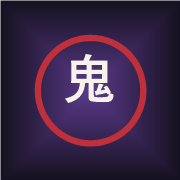
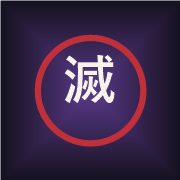
Rename to Demon Slayer RPG; add mask items, accessories and pets
- Rename the game to "Demon Slayer RPG" with an unofficial fan-game notice
- Swordsmith hyottoko mask is now a wearable item (plus a knife headband);
  old Swordsmith saves convert automatically
- New items: tengu mask, bamboo muzzle, eyepatch, kanzashi, oni horns,
  scarf patterns, and a crow or sparrow shoulder buddy
- Creator hides options that don't affect the Muscle Mouse or Boar Mask
  and makes eye shape/colour work for both

Changed region(s): [[0.3611, 0.2778, 0.6389, 0.5833]]

diff --git a/js/avatar.js b/js/avatar.js
@@ -238,6 +238,12 @@ function headgear(kind, color) {
   const dk = shade(color, -0.35);
   switch (kind) {
     case 'kasa': return accessory('strawHat');
+    case 'knifeBand': {
+      const knife = (x) => `<path d="M${x - 4},72 L${x - 4},26 Q${x},14 ${x + 4},26 L${x + 4},72Z" fill="#dfe4ec" class="ol" stroke-width="1.6"/><path d="M${x + 1},26 L${x + 1},70" stroke="#fff" stroke-width="1.2"/>`;
+      let dots = '';
+      for (let x = 72; x <= 168; x += 11) dots += `<circle cx="${x}" cy="${78 - Math.sin(((x - 66) / 108) * Math.PI) * 8}" r="2.6" fill="${INK}"/>`;
+      return `${knife(104)}${knife(136)}<path d="M64,76 Q120,58 176,76 L176,90 Q120,72 64,90Z" fill="#f7f4ee" class="ol" stroke-width="1.8"/>${dots}`;
+    }
     case 'hachimaki': return `<path d="M66,74 Q120,58 174,74 L174,88 Q120,72 66,88Z" fill="${color}" class="ol" stroke-width="1.8"/>
       <path d="M174,80 Q196,86 206,100 L196,104 Q190,94 176,88Z M174,84 Q190,100 190,118 L180,116 Q180,100 172,90Z" fill="${color}" class="ol" stroke-width="1.6"/><circle cx="176" cy="82" r="5" fill="${dk}" class="ol" stroke-width="1.4"/>`;
     case 'jingasa': return `<path d="M96,70 L94,146 M144,70 L146,146" stroke="#c8a868" stroke-width="1.6"/>
@@ -262,6 +268,29 @@ function accessory(style, color) {
     case 'flowerMask': return sideMask('flower');
     case 'scarMask': return `<path d="M70,74 Q120,58 170,74" fill="none" stroke="#a8202e" stroke-width="5"/><path d="M168,74 L176,98 M172,74 L182,94" stroke="#a8202e" stroke-width="3"/>` + sideMask('scar');
     case 'maskFace': return `<g transform="translate(120,100) scale(2.9)">${maskShape('sun')}</g>`;
+    case 'hyottoko': {
+      // Swordsmith's hyottoko mask: pink, round staring eyes, heavy brows, red cheeks, pursed spout mouth.
+      let seam = '';
+      for (let i = 0; i < 26; i++) { const t = (i / 26) * Math.PI * 2; seam += `M${(120 + Math.cos(t) * 41).toFixed(1)},${(100 + Math.sin(t) * 47).toFixed(1)} l${(Math.cos(t) * 4).toFixed(1)},${(Math.sin(t) * 4).toFixed(1)} `; }
+      return `<path d="M74,92 L62,88 M166,92 L178,88" stroke="#c8b898" stroke-width="2"/>
+        <ellipse cx="120" cy="100" rx="47" ry="53" fill="#e9868e" class="ol"/><path d="${seam}" stroke="#b85a64" stroke-width="1.4"/>
+        <path d="M152,64 Q172,100 148,148 L172,148 L172,64Z" fill="#000" opacity=".1"/>
+        <path d="M86,80 Q98,64 112,80 M128,80 Q142,64 154,80" fill="none" stroke="#1a1014" stroke-width="5.5" stroke-linecap="round"/>
+        ${[100, 140].map((x) => `<circle cx="${x}" cy="96" r="10" fill="#fff" class="ol" stroke-width="2"/><circle cx="${x}" cy="97" r="5.2" fill="#1a1014"/>`).join('')}
+        <circle cx="92" cy="118" r="8" fill="#b8202e"/><circle cx="148" cy="118" r="8" fill="#b8202e"/>
+        <path d="M120,104 Q114,114 120,116 Q126,114 120,104" fill="none" stroke="#b85a64" stroke-width="2"/>
+        <path d="M114,126 L156,138 Q164,140 160,146 L116,138Z" fill="#e47c86" class="ol" stroke-width="2"/><ellipse cx="160" cy="142" rx="3.4" ry="4" fill="#5a1e2a"/>`;
+    }
+    case 'tengu': return `<g transform="translate(160,50) rotate(24)"><path d="M-15,-6 Q-15,-21 0,-21 Q15,-21 15,-6 Q15,10 0,19 Q-15,10 -15,-6Z" fill="#c8302a" class="ol"/>
+      <path d="M-2,-4 L22,-22 L4,4Z" fill="#b02824" class="ol" stroke-width="1.4"/><path d="M-12,-10 Q-6,-16 -1,-10 M12,-10 Q6,-16 1,-10" fill="none" stroke="#fff" stroke-width="3"/>
+      <circle cx="-6" cy="-5" r="2" fill="#f0c23a"/><circle cx="6" cy="-5" r="2" fill="#f0c23a"/><path d="M-6,10 Q0,13 6,10" stroke="#1a1014" stroke-width="1.6" fill="none"/></g>`;
+    case 'muzzle': return `<path d="M96,129 L74,116 M144,129 L166,116" stroke="#a8202e" stroke-width="2.2"/>
+      <rect x="94" y="123" width="52" height="12" rx="6" fill="#7a9a4a" class="ol" stroke-width="1.8"/><path d="M110,123 L110,135 M130,123 L130,135" stroke="#4a6a2a" stroke-width="2"/><path d="M98,126 L142,126" stroke="#b8d08a" stroke-width="1.6"/>`;
+    case 'eyepatch': return `<path d="M66,76 L176,124 M70,124 L132,104" stroke="#1a1014" stroke-width="2.4"/><ellipse cx="140" cy="104" rx="14" ry="12" fill="#1a1014" class="ol"/>`;
+    case 'kanzashi': return `<path d="M136,40 L170,70" stroke="#d9a83a" stroke-width="2.6"/><g transform="translate(140,44)">${[0, 72, 144, 216, 288].map((a) => `<ellipse cx="0" cy="-5" rx="3.6" ry="5" fill="${color}" class="ol" stroke-width="1" transform="rotate(${a})"/>`).join('')}<circle r="2.6" fill="#f0c23a"/></g>
+      ${[0, 1, 2, 3].map((i) => `<circle cx="${146 + i}" cy="${54 + i * 7}" r="2.4" fill="${i % 2 ? '#e8ecf4' : color}" class="ol" stroke-width=".8"/>`).join('')}<path d="M144,48 L149,74" stroke="#d9a83a" stroke-width="1"/>`;
+    case 'oniHorns': return `<path d="M70,66 Q120,46 170,66" fill="none" stroke="#2a2a30" stroke-width="5"/>
+      <path d="M92,58 Q86,30 96,22 Q102,40 106,54Z M148,58 Q154,30 144,22 Q138,40 134,54Z" fill="${color}" class="ol" stroke-width="1.8"/>`;
     case 'bigButterfly': {
       const wing = `<path d="M0,0 C-6,-22 -30,-28 -30,-10 C-30,0 -14,2 0,0Z" fill="url(#bfly)" class="ol" stroke-width="1.4"/><path d="M0,2 C-16,4 -24,18 -12,22 C-4,24 0,12 0,2Z" fill="url(#bfly)" class="ol" stroke-width="1.4"/>
         <path d="M-2,-2 L-24,-14 M-4,-1 L-20,-4 M-2,3 L-14,14" stroke="${INK}" stroke-width="1"/><circle cx="-24" cy="-8" r="1.4" fill="#fff"/><circle cx="-26" cy="-14" r="1.2" fill="#fff"/>`;
@@ -291,9 +320,22 @@ function accessory(style, color) {
   }
 }
 
+/* ---------------- shoulder buddies ---------------- */
+function shoulderPet(kind, x, y) {
+  if (kind === 'crow') return `<g transform="translate(${x},${y - 8}) scale(.8)" style="filter:drop-shadow(0 0 1.5px #b8c4e8)"><g stroke="#0c0e18" stroke-width="2" stroke-linejoin="round">
+    <path d="M18,6 L34,14 L30,22Z" fill="#181b2c"/><path d="M-16,4 Q-12,-14 4,-14 Q18,-12 20,2 Q14,14 -4,14 Q-14,12 -16,4Z" fill="#1e2236"/>
+    <path d="M-8,0 Q4,-6 16,2 Q6,10 -10,8Z" fill="#283050"/><circle cx="-12" cy="-16" r="9" fill="#1e2236"/><path d="M-19,-20 Q-31,-21 -34,-14 Q-27,-14 -21,-11Z" fill="#2c3048"/></g>
+    <circle cx="-15" cy="-18" r="2.2" fill="#cdd0de"/><path d="M-4,14 L-5,22 M4,14 L5,22" stroke="#14161f" stroke-width="2"/></g>`;
+  if (kind === 'sparrow') return `<g transform="translate(${x},${y}) scale(.55)"><g stroke="#3a2418" stroke-width="2" stroke-linejoin="round">
+    <path d="M14,2 L30,8 L24,14Z" fill="#6a4a30"/><ellipse cx="2" cy="2" rx="17" ry="13" fill="#b8865a"/><ellipse cx="-2" cy="7" rx="11" ry="7" fill="#f2e6d0"/>
+    <path d="M2,-4 Q14,-6 18,4 Q8,8 0,4Z" fill="#7a5034"/><circle cx="-10" cy="-10" r="9" fill="#8a5a36"/><path d="M-18,-10 L-25,-8 L-18,-6Z" fill="#e8c060"/></g>
+    <circle cx="-13" cy="-12" r="2" fill="#1a1014"/><ellipse cx="-12" cy="-4" rx="4" ry="2.6" fill="#ff9aa8" opacity=".6"/><path d="M-4,14 L-5,20 M4,14 L5,20" stroke="#3a2418" stroke-width="2"/></g>`;
+  return '';
+}
+
 /* ---------------- species heads ---------------- */
 // Boar: a shaggy grey boar-head mask with pink-tipped ears, big blue eyes, pink snout and tusks.
-function boarHead(fur, p) {
+function boarHead(fur, p, eyeColor = '#3462cc', eyeStyle = 'round') {
   const beard = shade(fur, -0.32), cx = 120, cy = 96;
   let d = '';
   for (let i = 0; i <= 48; i++) {
@@ -306,7 +348,12 @@ function boarHead(fur, p) {
   let strokes = '';
   for (let i = 0; i < 22; i++) { const x = 78 + ((i * 37) % 84), y = 54 + ((i * 23) % 40); strokes += `M${x},${y} l${(i % 3) - 1},5 `; }
   const ear = `<path d="M86,58 L72,22 L106,46Z" fill="#7a6e8e" class="ol"/><path d="M84,50 L76,30 L98,44Z" fill="#e8869e"/>`;
-  const eye = `<path d="M82,98 Q98,80 116,96 Q100,114 82,98Z" fill="#14101c"/><circle cx="99" cy="97" r="9.5" fill="#3462cc"/><circle cx="99" cy="97" r="6" fill="#6f9cf2"/><circle cx="99" cy="97" r="2.8" fill="#0c1230"/><circle cx="95.5" cy="93.5" r="2.6" fill="#fff"/>
+  const big = eyeStyle === 'wide' ? 1.2 : 1;
+  const eye = eyeStyle === 'happy'
+    ? `<path d="M84,100 Q99,84 114,100" fill="none" stroke="#14101c" stroke-width="4" stroke-linecap="round"/>`
+    : `<path d="M82,98 Q98,80 116,96 Q100,114 82,98Z" fill="#14101c" transform="translate(99 97) scale(${big}) translate(-99 -97)"/><circle cx="99" cy="97" r="${9.5 * big}" fill="${eyeColor}"/><circle cx="99" cy="97" r="${6 * big}" fill="${shade(eyeColor, 0.35)}"/><circle cx="99" cy="97" r="2.8" fill="#0c1230"/><circle cx="95.5" cy="93.5" r="2.6" fill="#fff"/>
+    ${eyeStyle === 'sleepy' ? `<path d="M80,97 Q99,80 118,95 L118,86 L80,86Z" fill="${fur}" class="ol" stroke-width="1.6"/>` : ''}
+    ${eyeStyle === 'fierce' || eyeStyle === 'sharp' ? `<path d="M80,82 L116,92" stroke="#14101c" stroke-width="4" stroke-linecap="round"/>` : ''}
     <path d="M80,88 Q96,76 114,84 M84,108 Q98,114 110,108" fill="none" stroke="${beard}" stroke-width="1.6"/>`;
   return `<defs><clipPath id="${p}bh"><path d="${d}Z"/></clipPath></defs>
     ${ear}${mirror(ear)}
@@ -320,34 +367,21 @@ function boarHead(fur, p) {
     <path d="M94,142 Q88,132 93,121 Q98,132 101,140Z M146,142 Q152,132 147,121 Q142,132 139,140Z" fill="#fffaf0" class="ol" stroke-width="1.4"/>`;
 }
 
-// Swordsmith: a comic hyottoko mask, wild curly hair and a polka-dot headband with two knives.
-function smithHead(L) {
-  const hair = L.hairColor || '#1b1416';
-  let curls = '';
-  for (let i = 0; i < 22; i++) {
-    const a = ((150 + i * 11.5) * Math.PI) / 180, r = 58 + (i % 3) * 6;
-    curls += `<circle cx="${(120 + Math.cos(a) * r).toFixed(1)}" cy="${(98 + Math.sin(a) * r * 0.95).toFixed(1)}" r="${13 + (i % 4) * 2}" fill="${hair}" class="ol"/>`;
-  }
-  for (const [x, y] of [[58, 140], [182, 140], [64, 166], [176, 166]]) curls += `<circle cx="${x}" cy="${y}" r="14" fill="${hair}" class="ol"/>`;
-  const knife = (x) => `<path d="M${x - 4},76 L${x - 4},30 Q${x},18 ${x + 4},30 L${x + 4},76Z" fill="#dfe4ec" class="ol" stroke-width="1.6"/><path d="M${x + 1},30 L${x + 1},74" stroke="#fff" stroke-width="1.2"/>`;
-  let dots = '';
-  for (let x = 76; x <= 164; x += 11) dots += `<circle cx="${x}" cy="${74 - Math.sin(((x - 70) / 100) * Math.PI) * 7}" r="2.6" fill="${INK}"/>`;
-  return `${curls}${knife(104)}${knife(136)}
-    <ellipse cx="120" cy="102" rx="46" ry="50" fill="#f0dcc0" class="ol"/>
-    <path d="M150,66 Q172,104 146,148 L170,148 L170,66Z" fill="#000" opacity=".1"/>
-    <path d="M88,86 Q98,78 110,86 M130,86 Q142,78 152,86" fill="none" stroke="${INK}" stroke-width="2.6" stroke-linecap="round"/>
-    ${[100, 140].map((x) => `<circle cx="${x}" cy="100" r="8.5" fill="#fff" class="ol" stroke-width="2"/><circle cx="${x + 1}" cy="101" r="4.4" fill="${INK}"/>`).join('')}
-    <ellipse cx="94" cy="118" rx="7" ry="4" fill="#ff8a8a" opacity=".5"/><ellipse cx="146" cy="118" rx="7" ry="4" fill="#ff8a8a" opacity=".5"/>
-    <path d="M118,112 L114,122 L120,122" fill="none" stroke="${shade('#f0dcc0', -0.4)}" stroke-width="1.8"/>
-    <path d="M114,132 Q122,124 128,128" fill="none" stroke="${INK}" stroke-width="1.6"/>
-    <ellipse cx="132" cy="130" rx="8" ry="7" fill="#e8848a" class="ol" stroke-width="2"/><ellipse cx="134" cy="130" rx="3" ry="2.6" fill="#5a1e2a"/>
-    <path d="M68,72 Q120,56 172,72 L172,86 Q120,70 68,86Z" fill="#f7f4ee" class="ol" stroke-width="1.8"/>${dots}`;
-}
-
 // Muscle Mouse body (its own proportions: huge head and torso, thin legs, ragged fur shorts).
 function capsule(x1, y1, x2, y2, r1, r2, fill) {
   const dx = x2 - x1, dy = y2 - y1, len = Math.hypot(dx, dy) || 1, nx = -dy / len, ny = dx / len, f = (v) => v.toFixed(1);
   return `<path d="M${f(x1 + nx * r1)},${f(y1 + ny * r1)} L${f(x2 + nx * r2)},${f(y2 + ny * r2)} L${f(x2 - nx * r2)},${f(y2 - ny * r2)} L${f(x1 - nx * r1)},${f(y1 - ny * r1)}Z" fill="${fill}"/><circle cx="${f(x1)}" cy="${f(y1)}" r="${r1}" fill="${fill}"/><circle cx="${f(x2)}" cy="${f(y2)}" r="${r2}" fill="${fill}"/>`;
+}
+
+function mouseEye(x, style, color, fur) {
+  const side = x < 120 ? -1 : 1, ring = color ? shade(color, -0.1) : '#6e6880';
+  if (style === 'happy') return `<path d="M${x - 13},134 Q${x},114 ${x + 13},134" fill="none" stroke="${INK}" stroke-width="4.5" stroke-linecap="round"/>`;
+  const r = style === 'wide' ? 18.5 : 16;
+  let e = `<circle cx="${x}" cy="128" r="${r}" fill="#1a1420" class="ol" stroke-width="1.6"/><circle cx="${x}" cy="128" r="${r * 0.72}" fill="none" stroke="${ring}" stroke-width="1.8"/><circle cx="${x - 6}" cy="121" r="4.2" fill="#fff"/><circle cx="${x + 5}" cy="134" r="1.8" fill="#fff"/>`;
+  if (style === 'sleepy') e += `<path d="M${x - 17},127 A17,17 0 0,1 ${x + 17},127Z" fill="${fur}" class="ol" stroke-width="1.8"/>`;
+  if (style === 'fierce' || style === 'sharp') e += `<path d="M${x - 16 * side * -1},${side < 0 ? 104 : 114} L${x + 14 * side * -1},${side < 0 ? 114 : 104}" stroke="${INK}" stroke-width="5" stroke-linecap="round"/>`;
+  if (style === 'gentle') e += `<path d="M${x - 14},106 Q${x},100 ${x + 14},106" fill="none" stroke="${INK}" stroke-width="3" stroke-linecap="round"/>`;
+  return e;
 }
 
 export function renderMouse(L, opts = {}) {
@@ -365,7 +399,7 @@ export function renderMouse(L, opts = {}) {
     <path d="M100,136 Q120,198 140,136 Q120,148 100,136Z" fill="${light}" class="ol" stroke-width="1.8"/>
     <ellipse cx="120" cy="184" rx="5.5" ry="4" fill="#2a2030"/>
     <path d="M113,176 L82,168 M113,180 L84,184 M127,176 L158,168 M127,180 L156,184" stroke="${INK}" stroke-width="1.3" opacity=".8"/>
-    ${[98, 142].map((x) => `<circle cx="${x}" cy="128" r="16" fill="#1a1420" class="ol" stroke-width="1.6"/><circle cx="${x}" cy="128" r="11.5" fill="none" stroke="#6e6880" stroke-width="1.6"/><circle cx="${x - 6}" cy="121" r="4.2" fill="#fff"/><circle cx="${x + 5}" cy="134" r="1.8" fill="#fff"/>`).join('')}
+    ${[98, 142].map((x) => mouseEye(x, L.eyes, L.eyeColor, fur)).join('')}
     <path d="M64,98 Q120,74 176,98 L174,116 Q120,92 66,116Z" fill="#efe4c4" class="ol" stroke-width="2"/>
     <path d="M70,104 Q120,82 170,104" fill="none" stroke="#c8b890" stroke-width="1.4"/>
     ${[[120, 95, 13, 9], [92, 102, 6, 6], [148, 102, 6, 6]].map(([x, y, w, h]) => `<path d="M${x - w},${y} L${x - w * 0.5},${y - h} L${x + w * 0.5},${y - h} L${x + w},${y} L${x + w * 0.5},${y + h} L${x - w * 0.5},${y + h}Z" fill="${gem}" class="ol" stroke-width="1.4"/><path d="M${x - w * 0.5},${y - h} L${x},${y} L${x + w * 0.5},${y - h} M${x - w},${y} L${x + w},${y}" stroke="#fff" stroke-width=".9" opacity=".8"/>`).join('')}
@@ -639,6 +673,7 @@ const SHADE = 'fill="#000" opacity=".2"';
 
 export function renderAvatar(look, opts = {}) {
   if (look.species === 'mouse') return renderMouse(look, opts);
+  if (look.species === 'smith') look = { ...look, species: 'human', accessory: 'hyottoko', headgear: look.headgear && look.headgear !== 'none' ? look.headgear : 'knifeBand' };
   const p = `av${++uid}`;
   const L = look;
   const uc = L.uniformColor;
@@ -677,14 +712,14 @@ export function renderAvatar(look, opts = {}) {
     <path d="M98,26 Q90,50 100,76 M122,22 Q118,48 126,70 M146,28 Q156,52 148,80 M80,44 Q72,66 82,90 M164,46 Q172,70 162,94" fill="none" stroke="#000" stroke-width="1.6" opacity=".3"/>
     <path d="M86,44 Q120,28 154,44" fill="none" stroke="#fff" stroke-width="4" stroke-linecap="round" opacity=".3"/></g>`;
   const species = L.species || 'human';
-  const headFront = species === 'boar' ? boarHead(L.furColor || '#9a948e', p)
-    : species === 'smith' ? smithHead(L) + earrings + headgear(L.headgear, L.headgearColor || '#c0303a')
+  const headFront = species === 'boar' ? boarHead(L.furColor || '#9a948e', p, L.eyeColor || '#3462cc', L.eyes)
     : `${ears}${face}${blush}${eyes}${nose(L.nose, skin)}${mouth(L.mouth)}${hairFront}${brows}${scar(L.scar, skin)}${mark(L.mark, skin)}${earrings}${accessory(L.accessory, L.accColor)}${headgear(L.headgear, L.headgearColor || '#c0303a')}`;
   const style = `<style>.ol{stroke:${INK};stroke-width:2;stroke-linejoin:round}.hd .ol{stroke-width:3.2}</style>`;
   const label = opts.name ? opts.name.replace(/[<>"&]/g, '') : 'Your character';
 
   if (opts.headOnly) {
-    return `<svg viewBox="56 22 128 128" class="avatar-svg" role="img" aria-label="${label}" xmlns="http://www.w3.org/2000/svg">${style}<defs>${defs}</defs>${species === 'human' ? hairBack : ''}${headFront}</svg>`;
+    const vb = species === 'boar' ? '40 14 160 160' : '56 22 128 128';
+    return `<svg viewBox="${vb}" class="avatar-svg" role="img" aria-label="${label}" xmlns="http://www.w3.org/2000/svg">${style}<defs>${defs}</defs>${species === 'human' ? hairBack : ''}${headFront}</svg>`;
   }
 
   /* body */
@@ -816,13 +851,21 @@ export function renderAvatar(look, opts = {}) {
   const sc = L.scarfColor || '#4a7ad8', scD = shade(sc, -0.3);
   const ribs = (x0, x1, y0, y1) => { let r = ''; for (let x = x0; x <= x1; x += 4.5) r += `M${x},${y0} L${x + 1},${y1} `; return `<path d="${r}" stroke="${scD}" stroke-width="1.2"/>`; };
   let scarfFront = '', scarfBack = '';
+  const sp = L.scarfPattern || 'plain';
+  if (sp !== 'plain') {
+    const tile = sp === 'stripes' ? `<rect width="10" height="10" fill="${sc}"/><rect y="5" width="10" height="5" fill="${scD}"/>`
+      : sp === 'checks' ? `<rect width="10" height="10" fill="${sc}"/><rect width="5" height="5" fill="${scD}"/><rect x="5" y="5" width="5" height="5" fill="${scD}"/>`
+      : `<rect width="10" height="10" fill="${sc}"/><circle cx="5" cy="5" r="1.8" fill="#fff" opacity=".85"/>`;
+    defs += `<pattern id="${p}sp" width="10" height="10" patternUnits="userSpaceOnUse">${tile}</pattern>`;
+  }
+  const scFill = sp === 'plain' ? sc : `url(#${p}sp)`;
   if (L.scarf && L.scarf !== 'none') {
     const high = L.scarf === 'wrap';
     const top = high ? 88 : 96;
-    scarfFront = `<path d="M94,${top} Q120,${top + 8} 146,${top} L150,122 Q120,132 90,122Z" fill="${sc}" class="ol"/>${ribs(96, 144, top + 4, 124)}
+    scarfFront = `<path d="M94,${top} Q120,${top + 8} 146,${top} L150,122 Q120,132 90,122Z" fill="${scFill}" class="ol"/>${ribs(96, 144, top + 4, 124)}
       <path d="M92,${top + 13} Q120,${top + 22} 148,${top + 13}" fill="none" stroke="${scD}" stroke-width="2.2"/>`;
-    if (L.scarf === 'knit') scarfFront += `<path d="M124,118 L142,116 L147,178 L129,180Z" fill="${sc}" class="ol"/>${ribs(127, 143, 120, 176)}<path d="M130,180 l-1,7 M134,180 l0,7 M138,179 l1,7 M142,179 l1,7 M146,178 l2,6" stroke="${sc}" stroke-width="2"/>`;
-    if (L.scarf === 'long') scarfBack = `<path d="M140,100 Q186,94 212,116 Q228,132 238,126 L236,144 Q214,152 198,136 Q180,118 146,120Z" fill="${sc}" class="ol"/><path d="M160,104 Q190,104 214,124" fill="none" stroke="${scD}" stroke-width="1.6"/>`;
+    if (L.scarf === 'knit') scarfFront += `<path d="M124,118 L142,116 L147,178 L129,180Z" fill="${scFill}" class="ol"/>${ribs(127, 143, 120, 176)}<path d="M130,180 l-1,7 M134,180 l0,7 M138,179 l1,7 M142,179 l1,7 M146,178 l2,6" stroke="${sc}" stroke-width="2"/>`;
+    if (L.scarf === 'long') scarfBack = `<path d="M140,100 Q186,94 212,116 Q228,132 238,126 L236,144 Q214,152 198,136 Q180,118 146,120Z" fill="${scFill}" class="ol"/><path d="M160,104 Q190,104 214,124" fill="none" stroke="${scD}" stroke-width="1.6"/>`;
   }
   let cape = '';
   if (L.cape === 'mino') {
@@ -868,7 +911,7 @@ export function renderAvatar(look, opts = {}) {
     <g transform="${stance(1)}">${legsL}</g><g transform="${stance(-1)}">${legsR}</g>${legsTop}
     ${scarfBack}${neck}${torso}${haoriFront}${scarfFront}
     ${weaponExtra}${armL}${armRight}${cape}
-    <g class="hd" transform="${headT}">${headFront}</g>
+    <g class="hd" transform="${headT}">${headFront}</g>${shoulderPet(L.pet, 120 + S - 2, 104)}
   </g>`;
 
   return `<svg viewBox="0 -10 240 416" class="avatar-svg" role="img" aria-label="${label}" xmlns="http://www.w3.org/2000/svg">${style}<defs>${defs}</defs>${body}</svg>`;

diff --git a/js/data.js b/js/data.js
@@ -32,9 +32,12 @@ export const HAIR = [o('spiky', 'Spiky'), o('wild', 'Wild mane'), o('neat', 'Sid
 export const HAIR_FADE = [o('soft', 'Soft tips'), o('sharp', 'Sharp ends'), o('ends', 'Just the ends'), o('full', 'Full fade')];
 export const ACCESSORY = [o('none', 'None'), o('foxMask', 'Fox mask'), o('ribbon', 'Ribbon'), o('butterfly', 'Butterfly clips'),
   o('bigButterfly', 'Big butterfly'), o('headband', 'Jewel headband'), o('flower', 'Flower pin'),
-  o('sunMask', 'Warding mask'), o('flowerMask', 'Flower cat mask'), o('scarMask', 'Scarred fox mask'), o('maskFace', 'Mask over face')];
-export const HEADGEAR = [o('none', 'None'), o('kasa', 'Straw hat (kasa)'), o('hachimaki', 'Hachimaki band'), o('jingasa', 'Jingasa hat'), o('zukin', 'Zukin hood'), o('tenugui', 'Tenugui cloth')];
-export const SPECIES = [o('human', 'Human'), o('mouse', 'Muscle Mouse'), o('boar', 'Boar Mask'), o('smith', 'Swordsmith Mask')];
+  o('sunMask', 'Warding mask'), o('flowerMask', 'Flower cat mask'), o('scarMask', 'Scarred fox mask'), o('maskFace', 'Warding mask on face'), o('hyottoko', 'Swordsmith mask'),
+  o('tengu', 'Tengu mask'), o('muzzle', 'Bamboo muzzle'), o('eyepatch', 'Eyepatch'), o('kanzashi', 'Kanzashi hairpin'), o('oniHorns', 'Oni horns')];
+export const HEADGEAR = [o('none', 'None'), o('kasa', 'Straw hat (kasa)'), o('hachimaki', 'Hachimaki band'), o('jingasa', 'Jingasa hat'), o('zukin', 'Zukin hood'), o('tenugui', 'Tenugui cloth'), o('knifeBand', 'Swordsmith knife band')];
+export const SCARF_PATTERN = [o('plain', 'Plain'), o('stripes', 'Stripes'), o('checks', 'Checks'), o('dots', 'Dots')];
+export const PETS = [o('none', 'None'), o('crow', 'Kasugai crow'), o('sparrow', 'Sparrow')];
+export const SPECIES = [o('human', 'Human'), o('mouse', 'Muscle Mouse'), o('boar', 'Boar Mask')];
 export const BODY = [o('masc', 'Masculine'), o('fem', 'Feminine')];
 export const FUR = ['#bdb6c4', '#e8e4ec', '#8a7a6a', '#6b4a35', '#4a4048', '#d8b48a'];
 export const BUILD = [o('slim', 'Slim'), o('regular', 'Regular'), o('strong', 'Strong')];
@@ -70,7 +73,7 @@ export const OUTFIT_PRESETS = [
   { name: 'Love', note: 'Mitsuri style', set: { uniform: 'open', uniformColor: '#1d2233', haori: 'plain', haoriColor: '#f2efe6', haoriColor2: '#f2efe6', pants: 'skirt', shoes: 'boots', hair: 'braids', hairColor: '#ff7aa8', hairTip: '#8ad6b0', hairFade: 'sharp', body: 'fem' } },
   { name: 'Boar Pelt', note: 'Inosuke style', set: { species: 'boar', uniform: 'bare', haori: 'none', pants: 'baggy', pantsColor: '#26304a', shoes: 'furBoots', furColor: '#9a948e' },
     weapon: { type: 'jagged', blade: '#7a8aa0', guard: 'none', wrap: '#e8e4ec' } },
-  { name: 'Swordsmith', note: 'Hyottoko mask', set: { species: 'smith', uniform: 'kimono', uniformColor: '#2a2a2e', haori: 'none', pants: 'hakama', pantsColor: '#b8ac90', shoes: 'geta', hairColor: '#1b1416' },
+  { name: 'Swordsmith', note: 'Hyottoko mask', set: { uniform: 'kimono', uniformColor: '#2a2a2e', haori: 'none', pants: 'hakama', pantsColor: '#b8ac90', shoes: 'geta', hair: 'bob', hairColor: '#1b1416', accessory: 'hyottoko', headgear: 'knifeBand' },
     weapon: { type: 'dual', blade: '#c0c6cf', guard: 'none', wrap: '#5a3a24' } },
   { name: 'Muscle Mouse', note: 'Flex!', set: { species: 'mouse', accColor: '#d8a6e8', furColor: '#c9c4d6', shortsColor: '#3a2a4a' } },
   { name: 'Hemp Kimono', note: 'Nezuko style', set: { uniform: 'kimono', uniformColor: '#e05a8a', haori: 'plain', haoriColor: '#5a1e2a', haoriColor2: '#5a1e2a', pants: 'skirt', shoes: 'zori', accessory: 'ribbon', accColor: '#e05a8a', hair: 'long', hairColor: '#1b1416', hairTip: '#ff8c2e', hairFade: 'ends', body: 'fem' } },
@@ -79,7 +82,7 @@ export const OUTFIT_PRESETS = [
 
 export const DEFAULT_LOOK = {
   species: 'human', body: 'masc', furColor: '#c9c4d6', shortsColor: '#3a2a4a', hairFade: 'soft',
-  scarf: 'none', scarfColor: '#4a7ad8', headgear: 'none', headgearColor: '#c0303a', cape: 'none', armbands: 'none', wrapColor: '#f2efe6', pantsColor: '',
+  scarf: 'none', scarfColor: '#4a7ad8', headgear: 'none', headgearColor: '#c0303a', scarfPattern: 'plain', pet: 'none', cape: 'none', armbands: 'none', wrapColor: '#f2efe6', pantsColor: '',
   skin: '#f9d4b8', face: 'oval', eyes: 'round', eyeColor: '#b3262e', eyeColor2: '', brows: 'soft', nose: 'line',
   mouth: 'smile', ears: 'normal', earrings: 'none', earringColor: '#d9a83a', scar: 'none', mark: 'none', blush: true,
   hair: 'spiky', hairColor: '#3a2622', hairTip: '', accessory: 'none', accColor: '#e05a8a',

diff --git a/js/creator.js b/js/creator.js
@@ -26,10 +26,29 @@ const GROUPS = {
     ['Shoes', 'shoes', D.SHOES], ['Haori (jacket)', 'haori', D.HAORI], ['Haori colour', 'haoriColor', D.CLOTH_COLORS],
     ['Haori pattern colour', 'haoriColor2', D.CLOTH_COLORS], ['Trousers colour', 'pantsColor', D.CLOTH_COLORS, { none: 'Auto' }],
     ['Leg wrap colour', 'wrapColor', D.CLOTH_COLORS], ['Scarf', 'scarf', D.SCARF], ['Scarf colour', 'scarfColor', D.CLOTH_COLORS],
-    ['Straw cape', 'cape', D.CAPE], ['Arm bands', 'armbands', D.ARMBANDS], ['Fur shorts (Muscle Mouse)', 'shortsColor', D.CLOTH_COLORS]],
+    ['Scarf pattern', 'scarfPattern', D.SCARF_PATTERN], ['Straw cape', 'cape', D.CAPE], ['Arm bands', 'armbands', D.ARMBANDS], ['Shoulder buddy', 'pet', D.PETS], ['Fur shorts (Muscle Mouse)', 'shortsColor', D.CLOTH_COLORS]],
 };
 
 const isColorList = (opts) => typeof opts[0] === 'string';
+
+// Which look options actually change each character type. Everything else is hidden.
+const HUMAN_ONLY = ['face', 'ears', 'nose', 'mouth', 'blush', 'eyeColor2', 'brows', 'hair', 'hairColor', 'hairTip', 'hairFade', 'accessory', 'accColor',
+  'scar', 'mark', 'earrings', 'earringColor', 'headgear', 'headgearColor'];
+const SPECIES_KEYS = {
+  mouse: new Set(['species', 'furColor', 'eyes', 'eyeColor', 'accColor', 'shortsColor']),
+};
+const SPECIES_EYES = ['round', 'gentle', 'fierce', 'sleepy', 'happy', 'wide'];
+function applies(key, species) {
+  if (key === 'furColor') return species !== 'human';
+  if (key === 'shortsColor') return species === 'mouse';
+  if (species === 'mouse') return SPECIES_KEYS.mouse.has(key);
+  if (species === 'boar') return !HUMAN_ONLY.includes(key) || key === 'hairColor';
+  return true;
+}
+const SPECIES_NOTE = {
+  mouse: 'The Muscle Mouse has its own built-in face and body. You can change its fur, eyes, headband gem colour and fur shorts.',
+  boar: 'The Boar Mask covers the whole head. Choose its fur and eye colour here; body and outfit options still work.',
+};
 const pickR = (a) => a[Math.floor(Math.random() * a.length)];
 
 export function randomName(look) {
@@ -158,8 +177,17 @@ export function creatorScreen(root, params) {
     if (tab === 'weapon') panel.innerHTML = weaponPanel();
     else if (tab === 'library') panel.innerHTML = libraryPanel();
     else if (tab === 'name') panel.innerHTML = namePanel();
-    else panel.innerHTML = GROUPS[tab].map(([title, key, opts, extra]) => `<section class="group"><h3>${title}</h3>${chips(key, opts, extra)}</section>`).join('')
+    else {
+      const sp = look.species || 'human';
+      const groups = GROUPS[tab].filter(([, key]) => applies(key, sp)).map(([title, key, opts, extra]) => {
+        const shown = key === 'eyes' && sp !== 'human' ? opts.filter((o) => SPECIES_EYES.includes(o.id)) : opts;
+        const label = key === 'accColor' && sp === 'mouse' ? 'Headband gem colour' : title;
+        return `<section class="group"><h3>${label}</h3>${chips(key, shown, extra)}</section>`;
+      }).join('');
+      const note = sp !== 'human' && GROUPS[tab].some(([, key]) => !applies(key, sp)) ? `<p class="hint species-note">${SPECIES_NOTE[sp]}</p>` : '';
+      panel.innerHTML = note + (groups || '<p class="hint">Nothing to change here for this character.</p>')
       + `<div class="panel-next"><button class="btn" data-act="next">Next: ${TABS[TABS.findIndex((t) => t.id === tab) + 1].label} ▸</button></div>`;
+    }
     panel.scrollTop = top;
   }
 
@@ -180,8 +208,7 @@ export function creatorScreen(root, params) {
       look[t.dataset.k] = v;
       // Picking a mouse or boar sets up a fitting outfit (still changeable).
       if (t.dataset.k === 'species' && v === 'mouse') Object.assign(look, { accColor: '#d8a6e8', furColor: '#c9c4d6' });
-      if (t.dataset.k === 'species' && v === 'boar') Object.assign(look, { uniform: 'bare', haori: 'none', pants: 'baggy', pantsColor: '#26304a', shoes: 'furBoots', furColor: '#9a948e' });
-      if (t.dataset.k === 'species' && v === 'smith') Object.assign(look, { uniform: 'kimono', uniformColor: '#2a2a2e', haori: 'none', pants: 'hakama', pantsColor: '#b8ac90', shoes: 'geta', hairColor: '#1b1416' });
+      if (t.dataset.k === 'species' && v === 'boar') Object.assign(look, { eyeColor: '#3462cc', uniform: 'bare', haori: 'none', pants: 'baggy', pantsColor: '#26304a', shoes: 'furBoots', furColor: '#9a948e' });
       if (t.dataset.k === 'species' && v === 'human' && look.uniform === 'bare') Object.assign(look, { uniform: 'corps' });
       redraw();
       return;

diff --git a/js/main.js b/js/main.js
@@ -18,10 +18,8 @@ function titleScreen(root) {
   const when = (t) => new Date(t).toLocaleDateString(undefined, { day: 'numeric', month: 'short' });
   root.innerHTML = `
     <div class="title-screen">
-      <div class="logo"><span class="logo-kanji" aria-hidden="true">鬼</span><h1>Onigari</h1>
-        <p class="logo-jp">鬼狩り <button class="say-btn" data-act="say" aria-label="Hear how to say Onigari">🔊</button></p>
-        <p class="logo-say">Say it: <b>oh-nee-GAH-ree</b> · means <b>"Demon Hunter"</b></p>
-        <p class="logo-sub">Blade of Dawn</p><p>Create your hunter. Train. Rise to Hashira.</p></div>
+      <div class="logo"><span class="logo-kanji" aria-hidden="true">滅</span><h1>Demon Slayer RPG</h1>
+        <p class="logo-sub">A fan-made adventure</p><p>Create your slayer. Train. Rise to Hashira.</p></div>
       ${storageOk ? '' : '<p class="warn">Saving is blocked in this browser (private mode?). Progress will be lost when you close the page.</p>'}
       <div class="slots">${slots.map((s, i) => s ? `
         <div class="slot">
@@ -35,7 +33,7 @@ function titleScreen(root) {
         ${isIos && !isStandalone ? '<button class="btn" data-act="ios">📲 Install on iPhone / iPad</button>' : ''}
         <label class="btn file-btn">📂 Import a backup<input type="file" accept="application/json,.json" hidden></label>
       </div>
-      <p class="foot">A fan-made game. Your slayers are saved on this device only. Use <b>⋯ → Back up</b> to keep a copy.</p>
+      <p class="foot">Unofficial fan-made game, not affiliated with or endorsed by the creators of <i>Demon Slayer: Kimetsu no Yaiba</i>. Your slayers are saved on this device only. Use <b>⋯ → Back up</b> to keep a copy.</p>
     </div>`;
 
   root.addEventListener('click', async (e) => {
@@ -61,15 +59,6 @@ function titleScreen(root) {
           actions: [{ label: 'Keep', value: false, primary: true }, { label: 'Delete', value: true, danger: true }] });
         if (sure) { deleteSlot(i); go('title'); }
       }
-      return;
-    }
-    if (t.dataset.act === 'say') {
-      // Speak the name in Japanese if the device has a voice for it.
-      try {
-        const u = new SpeechSynthesisUtterance('おにがり');
-        u.lang = 'ja-JP'; u.rate = 0.8;
-        speechSynthesis.cancel(); speechSynthesis.speak(u);
-      } catch { toast('Say it: oh-nee-GAH-ree'); }
       return;
     }
     if (t.dataset.act === 'install' && installEvent) {

diff --git a/index.html b/index.html
@@ -3,8 +3,8 @@
 <head>
   <meta charset="utf-8">
   <meta name="viewport" content="width=device-width, initial-scale=1, viewport-fit=cover">
-  <title>Onigari</title>
-  <meta name="description" content="Onigari (鬼狩り): create your own demon hunter, train in the forest, slay demons and rise through the ranks.">
+  <title>Demon Slayer RPG</title>
+  <meta name="description" content="Demon Slayer RPG: a fan-made game. Create your own slayer, train in the forest, slay demons and rise through the ranks.">
   <meta name="theme-color" content="#15111f">
   <link rel="manifest" href="manifest.webmanifest">
   <link rel="icon" href="icons/icon.svg" type="image/svg+xml">
@@ -12,13 +12,13 @@
   <meta name="mobile-web-app-capable" content="yes">
   <meta name="apple-mobile-web-app-capable" content="yes">
   <meta name="apple-mobile-web-app-status-bar-style" content="black-translucent">
-  <meta name="apple-mobile-web-app-title" content="Onigari">
+  <meta name="apple-mobile-web-app-title" content="Demon Slayer RPG">
   <link rel="stylesheet" href="css/style.css">
 </head>
 <body>
   <main id="app"></main>
   <div id="toast" role="status" aria-live="polite"></div>
-  <noscript>Onigari needs JavaScript turned on.</noscript>
+  <noscript>Demon Slayer RPG needs JavaScript turned on.</noscript>
   <script type="module" src="js/main.js"></script>
 </body>
 </html>

diff --git a/js/store.js b/js/store.js
@@ -65,6 +65,7 @@ export function newGame(slot) {
 // Fill in fields added after a save was made, so old saves keep working.
 function migrate(s) {
   const base = newGame(s.slot);
+  if (s.look?.species === 'smith') s.look = { ...s.look, species: 'human', accessory: 'hyottoko', headgear: 'knifeBand' };
   return {
     ...base, ...s,
     look: { ...base.look, ...s.look }, weapon: { ...base.weapon, ...s.weapon },
@@ -76,14 +77,14 @@ export function exportSave(game) {
   const blob = new Blob([JSON.stringify(game, null, 2)], { type: 'application/json' });
   const a = document.createElement('a');
   a.href = URL.createObjectURL(blob);
-  a.download = `onigari-${(game.name || 'slayer').replace(/\W+/g, '_')}.json`;
+  a.download = `demon-slayer-rpg-${(game.name || 'slayer').replace(/\W+/g, '_')}.json`;
   a.click();
   setTimeout(() => URL.revokeObjectURL(a.href), 1000);
 }
 
 export async function importSave(file, slot) {
   const data = JSON.parse(await file.text());
-  if (!data || typeof data !== 'object' || !data.look || !data.stats) throw new Error('Not a Slayer\'s Path save file');
+  if (!data || typeof data !== 'object' || !data.look || !data.stats) throw new Error('Not a Demon Slayer RPG save file');
   const game = migrate({ ...data, slot });
   saveGame(game);
   return game;

diff --git a/sw.js b/sw.js
@@ -1,7 +1,7 @@
 // Offline support: cache the app shell. Network first (so updates show straight away), cache when offline.
 // Bump VERSION whenever files change so players get the update.
-const VERSION = 'v2';
-const CACHE = `onigari-${VERSION}`;
+const VERSION = 'v3';
+const CACHE = `demon-slayer-rpg-${VERSION}`;
 const FILES = [
   './', 'index.html', 'manifest.webmanifest', 'css/style.css',
   'js/main.js', 'js/ui.js', 'js/store.js', 'js/data.js', 'js/game.js', 'js/avatar.js', 'js/demons.js',

diff --git a/README.md b/README.md
@@ -1,6 +1,6 @@
-# Onigari (鬼狩り): Blade of Dawn
+# Demon Slayer RPG
 
-*Onigari* is Japanese for "demon hunting". A fan-made, kid-friendly demon hunter adventure that runs in the browser and installs like an app on Android and iPhone.
+An unofficial, fan-made, kid-friendly demon slayer adventure that runs in the browser and installs like an app on Android and iPhone.
 
 ## Features (Chapter 1: The Forest)
 
